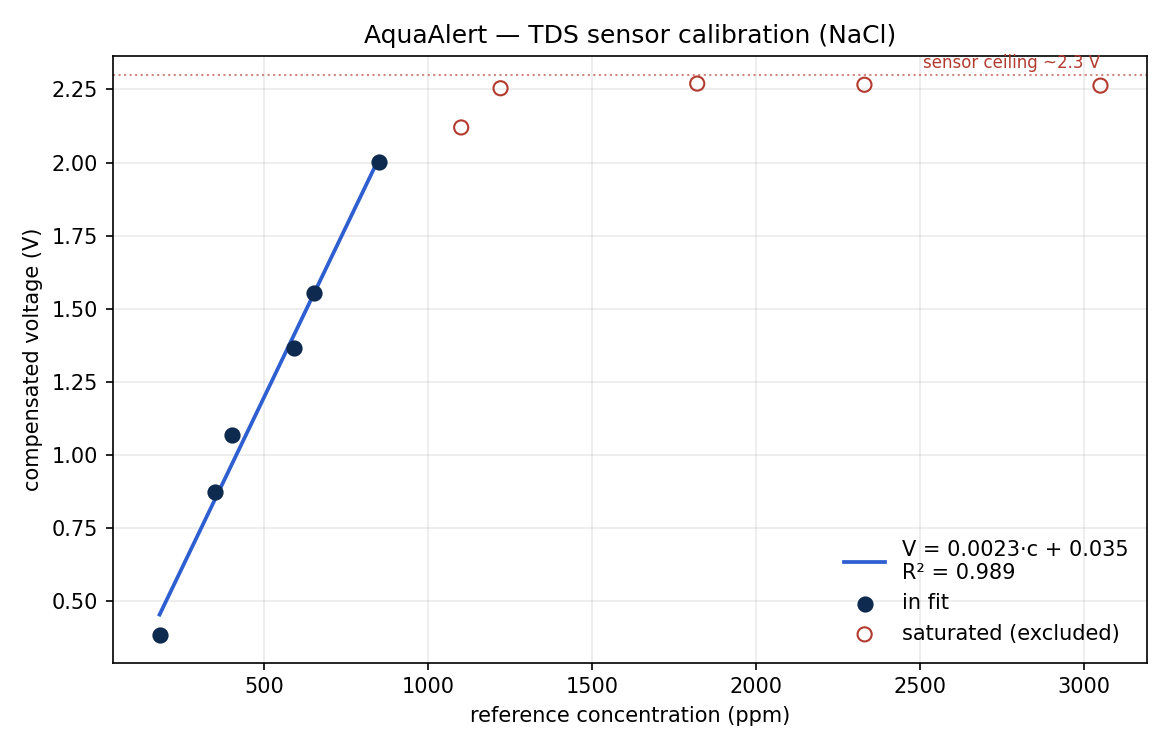
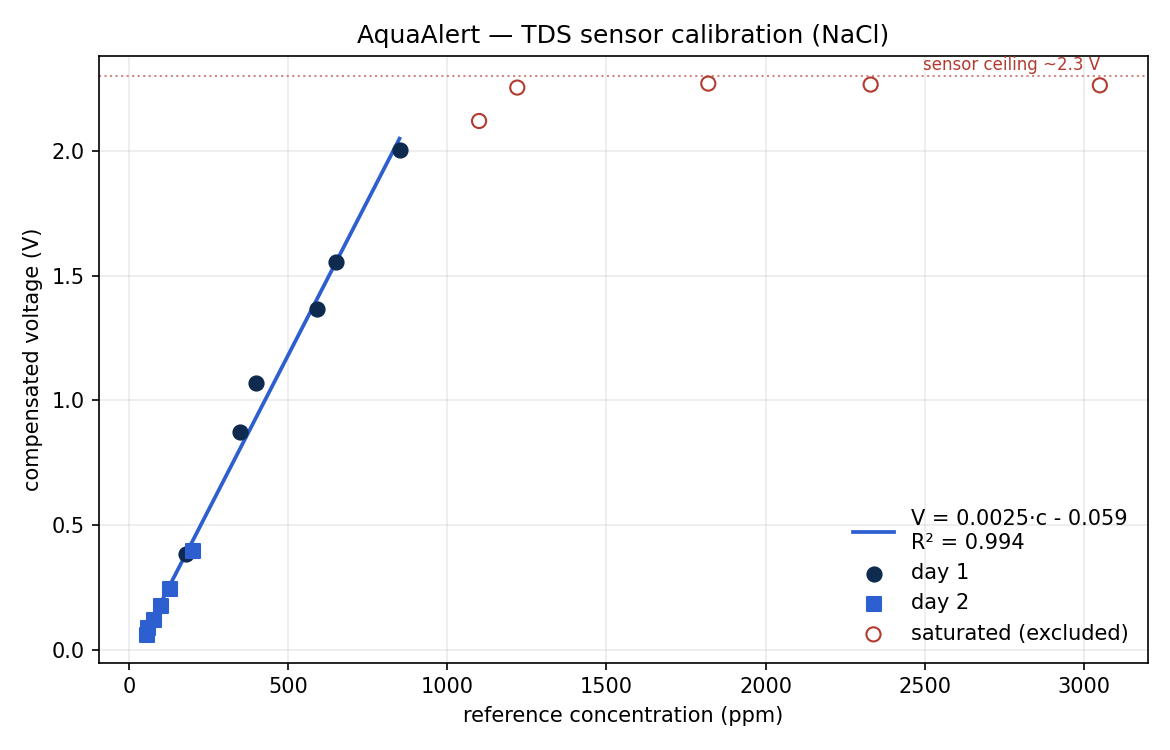
Combine both experiment days into one calibration curve
Added the day-2 dilute series (57–200 ppm; recorded in mg/mL, converted
at 1 mg/mL = 1000 ppm) to calibration.csv with a day column. The two
days agree at the overlap (180 ppm/0.385 V vs 200 ppm/0.395 V),
confirming reproducibility.

calibrate.py now colours in-fit points by day and formats a negative
intercept cleanly. Combined fit over 12 points (57–850 ppm):
  V = 0.00248·c - 0.059,  R² = 0.994,  2.48 mV/ppm
Curve regenerated in docs/calibration_curve.png.

diff --git a/analysis/calibrate.py b/analysis/calibrate.py
@@ -80,8 +80,9 @@ def main() -> None:
     ss_tot = float(np.sum((v - v.mean()) ** 2))
     r2 = 1 - ss_res / ss_tot if ss_tot else float("nan")
 
+    sign = "-" if b < 0 else "+"
     print(f"Fit over {len(c)} points ({c.min():.0f}–{c.max():.0f} {unit}):")
-    print(f"  V = {m:.6f} * c + {b:.4f}     (c in {unit}, V in volts)")
+    print(f"  V = {m:.6f} * c {sign} {abs(b):.4f}     (c in {unit}, V in volts)")
     print(f"  R²  = {r2:.4f}")
     print(f"  sensitivity = {m * 1000:.3f} mV per {unit}")
     if m:
@@ -93,8 +94,18 @@ def main() -> None:
     fig, ax = plt.subplots(figsize=(7.8, 5))
     xs = np.linspace(c.min(), c.max(), 100)
     ax.plot(xs, m * xs + b, color="#2E5FD0", lw=1.8, zorder=3,
-            label=f"V = {m:.4f}·c + {b:.3f}\nR² = {r2:.3f}")
-    ax.scatter(c, v, color="#0E2A4E", s=46, zorder=5, label="in fit")
+            label=f"V = {m:.4f}·c {sign} {abs(b):.3f}\nR² = {r2:.3f}")
+
+    # in-fit points, coloured by experiment day if that column is present
+    if "day" in fit_df.columns:
+        markers = {1: ("#0E2A4E", "o"), 2: ("#2E5FD0", "s")}
+        for d, grp in fit_df.groupby("day"):
+            color, mk = markers.get(int(d), ("#0E2A4E", "o"))
+            ax.scatter(grp[conc_col], grp[SIGNAL], color=color, marker=mk,
+                       s=46, zorder=5, label=f"day {int(d)}")
+    else:
+        ax.scatter(c, v, color="#0E2A4E", s=46, zorder=5, label="in fit")
+
     if len(excl_df):
         ax.scatter(excl_df[conc_col], excl_df[SIGNAL], facecolors="none",
                    edgecolors="#B23A2F", s=46, zorder=4, label="saturated (excluded)")
